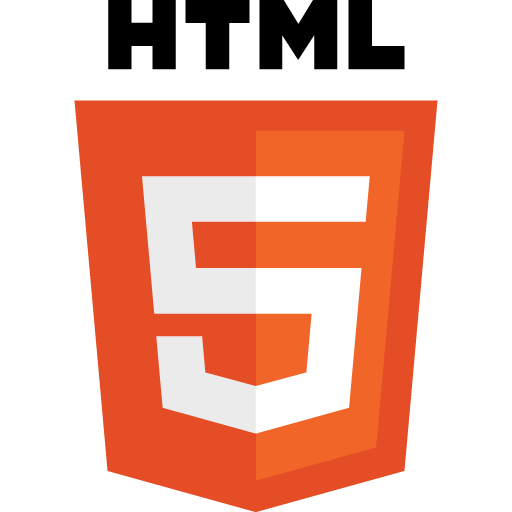
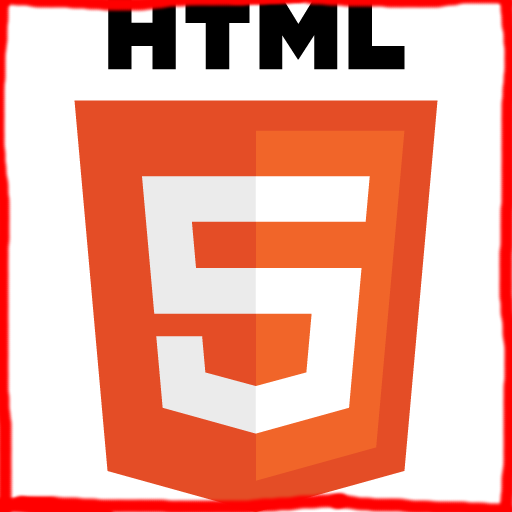
Added the ability to add optional padding parameter to leave transparent space around each sprite and sides of spritesheet.

Changed region(s): [[0.0, 0.0, 1.0, 1.0]]

diff --git a/target/test.html b/target/test.html
@@ -1,0 +1,23 @@
+<!DOCTYPE html>
+<html>
+   <head>
+      <title>Test sprite image</title>
+      <style>
+         html,
+         body {
+            padding: 0;
+            margin: 0;
+         }
+         body {
+            padding: 20px;
+         }
+         img {
+            border: 1px solid black;
+            background: #ccc;
+         }
+      </style>
+   </head>
+   <body>
+      <img src="spritesheet.png" alt="">
+   </body>
+</html>

diff --git a/src/com/murphybob/spritepacker/Spritepacker.java b/src/com/murphybob/spritepacker/Spritepacker.java
@@ -15,20 +15,174 @@ public class Spritepacker {
 	private static long startTime = System.currentTimeMillis();
 	
 	/*
-	 * This will come from pom when mojo'd
+	 * These will come from pom when mojo'd
 	 */
 	private static File output = new File("target/spritesheet.png");
-
-	/*
-	 * This will come from pom when mojo'd
-	 */
 	private static File[] imageFiles = {
 		new File("src/images/bob.png"),
 		new File("src/images/html5.png"),
 		new File("src/images/twitterTall.png"),
 		new File("src/images/twitter.png"),
+		new File("src/images/superman.png"),
+		new File("src/images/bob.png"),
+		new File("src/images/twitterTall.png"),
+		new File("src/images/twitter.png"),
+		new File("src/images/twsmall.png"),
+		new File("src/images/twsmall.png"),
+		new File("src/images/twsmall.png"),
+		new File("src/images/twsmall.png"),
+		new File("src/images/twsmall.png"),
+		new File("src/images/twsmall.png"),
+		new File("src/images/twsmall.png"),
+		new File("src/images/twsmall.png"),
+		new File("src/images/twsmall.png"),
+		new File("src/images/twsmall.png"),
+		new File("src/images/twsmall.png"),
+		new File("src/images/twsmall.png"),
+		new File("src/images/twsmall.png"),
+		new File("src/images/twsmall.png"),
+		new File("src/images/twsmall.png"),
+		new File("src/images/twsmall.png"),
+		new File("src/images/twsmall.png"),
+		new File("src/images/twsmall.png"),
+		new File("src/images/twsmall.png"),
+		new File("src/images/twsmall.png"),
+		new File("src/images/twsmall.png"),
+		new File("src/images/twsmall.png"),
+		new File("src/images/twsmall.png"),
+		new File("src/images/twsmall.png"),
+		new File("src/images/twsmall.png"),
+		new File("src/images/twsmall.png"),
+		new File("src/images/twsmall.png"),
+		new File("src/images/twsmall.png"),
+		new File("src/images/twsmall.png"),
+		new File("src/images/twsmall.png"),
+		new File("src/images/twsmall.png"),
+		new File("src/images/twsmall.png"),
+		new File("src/images/twsmall.png"),
+		new File("src/images/twsmall.png"),
+		new File("src/images/twsmall.png"),
+		new File("src/images/twsmall.png"),
+		new File("src/images/twsmall.png"),
+		new File("src/images/twsmall.png"),
+		new File("src/images/twsmall.png"),
+		new File("src/images/twsmall.png"),
+		new File("src/images/twsmall.png"),
+		new File("src/images/twsmall.png"),
+		new File("src/images/twsmall.png"),
+		new File("src/images/twsmall.png"),
+		new File("src/images/twsmall.png"),
+		new File("src/images/twsmall.png"),
+		new File("src/images/twsmall.png"),
+		new File("src/images/twsmall.png"),
+		new File("src/images/twsmall.png"),
+		new File("src/images/twsmall.png"),
+		new File("src/images/twsmall.png"),
+		new File("src/images/twsmall.png"),
+		new File("src/images/twsmall.png"),
+		new File("src/images/twsmall.png"),
+		new File("src/images/twsmall.png"),
+		new File("src/images/twsmall.png"),
+		new File("src/images/twsmall.png"),
+		new File("src/images/twsmall.png"),
+		new File("src/images/twsmall.png"),
+		new File("src/images/twsmall.png"),
+		new File("src/images/twsmall.png"),
+		new File("src/images/twsmall.png"),
+		new File("src/images/twsmall.png"),
+		new File("src/images/twsmall.png"),
+		new File("src/images/twsmall.png"),
+		new File("src/images/twsmall.png"),
+		new File("src/images/twsmall.png"),
+		new File("src/images/twsmall.png"),
+		new File("src/images/twsmall.png"),
+		new File("src/images/twsmall.png"),
+		new File("src/images/twsmall.png"),
+		new File("src/images/twsmall.png"),
+		new File("src/images/twsmall.png"),
+		new File("src/images/twsmall.png"),
+		new File("src/images/twsmall.png"),
+		new File("src/images/twsmall.png"),
+		new File("src/images/twsmall.png"),
+		new File("src/images/twsmall.png"),
+		new File("src/images/twsmall.png"),
+		new File("src/images/twsmall.png"),
+		new File("src/images/twsmall.png"),
+		new File("src/images/twsmall.png"),
+		new File("src/images/twsmall.png"),
+		new File("src/images/twsmall.png"),
+		new File("src/images/twsmall.png"),
+		new File("src/images/twsmall.png"),
+		new File("src/images/twsmall.png"),
+		new File("src/images/twsmall.png"),
+		new File("src/images/twsmall.png"),
+		new File("src/images/twsmall.png"),
+		new File("src/images/twsmall.png"),
+		new File("src/images/twsmall.png"),
+		new File("src/images/twsmall.png"),
+		new File("src/images/twsmall.png"),
+		new File("src/images/twsmall.png"),
+		new File("src/images/twsmall.png"),
+		new File("src/images/twsmall.png"),
+		new File("src/images/twsmall.png"),
+		new File("src/images/twsmall.png"),
+		new File("src/images/twsmall.png"),
+		new File("src/images/twsmall.png"),
+		new File("src/images/twsmall.png"),
+		new File("src/images/twsmall.png"),
+		new File("src/images/twsmall.png"),
+		new File("src/images/twsmall.png"),
+		new File("src/images/twsmall.png"),
+		new File("src/images/twsmall.png"),
+		new File("src/images/twsmall.png"),
+		new File("src/images/twsmall.png"),
+		new File("src/images/twsmall.png"),
+		new File("src/images/twsmall.png"),
+		new File("src/images/twsmall.png"),
+		new File("src/images/twsmall.png"),
+		new File("src/images/twsmall.png"),
+		new File("src/images/twsmall.png"),
+		new File("src/images/twsmall.png"),
+		new File("src/images/twsmall.png"),
+		new File("src/images/twsmall.png"),
+		new File("src/images/twsmall.png"),
+		new File("src/images/twsmall.png"),
+		new File("src/images/twsmall.png"),
+		new File("src/images/twsmall.png"),
+		new File("src/images/twsmall.png"),
+		new File("src/images/twsmall.png"),
+		new File("src/images/twsmall.png"),
+		new File("src/images/twsmall.png"),
+		new File("src/images/twsmall.png"),
+		new File("src/images/twsmall.png"),
+		new File("src/images/twsmall.png"),
+		new File("src/images/twsmall.png"),
+		new File("src/images/twsmall.png"),
+		new File("src/images/twsmall.png"),
+		new File("src/images/twsmall.png"),
+		new File("src/images/twsmall.png"),
+		new File("src/images/twsmall.png"),
+		new File("src/images/twsmall.png"),
+		new File("src/images/twsmall.png"),
+		new File("src/images/twsmall.png"),
+		new File("src/images/twsmall.png"),
+		new File("src/images/twsmall.png"),
+		new File("src/images/twsmall.png"),
+		new File("src/images/twsmall.png"),
+		new File("src/images/twsmall.png"),
+		new File("src/images/twsmall.png"),
+		new File("src/images/twsmall.png"),
+		new File("src/images/twsmall.png"),
+		new File("src/images/twsmall.png"),
+		new File("src/images/twsmall.png"),
+		new File("src/images/twsmall.png"),
+		new File("src/images/twsmall.png"),
+		new File("src/images/twsmall.png"),
+		new File("src/images/twsmall.png"),
+		new File("src/images/twsmall.png"),
 		new File("src/images/superman.png")
 	};
+	private static Integer padding = 50;
 	
 	/**
 	 * @param args
@@ -84,6 +238,7 @@ public class Spritepacker {
 	
 	private static Node packImages( ArrayList<ImageNode> images ){
 		PackGrowing p = new PackGrowing();
+		p.setPadding( padding );
 		return p.fit(images);		
 	}
 	

diff --git a/src/com/murphybob/spritepacker/PackGrowing.java b/src/com/murphybob/spritepacker/PackGrowing.java
@@ -5,7 +5,17 @@ import java.util.ArrayList;
 public class PackGrowing {
 	
 	private Node root;
+	private Integer padding = 0;
 
+	/*
+	 * Sets free space padding to be created around each packed node
+	 * 
+	 * @param	padding	padding in pixels
+	 */
+	public void setPadding( Integer p ){
+		padding = p;
+	}
+	
 	/*
 	 * Adds Node node property to each element in an array of ImageNodes according to how it could be packed into a larger rectangle
 	 * 
@@ -16,7 +26,7 @@ public class PackGrowing {
 		int w = images.get(0).w;
 		int h = images.get(0).h;
 		
-		root = new Node( 0, 0, w, h );
+		root = new Node( padding, padding, w, h );
 		
 		for( ImageNode imageNode: images){
 			Node availableNode = findNode( root, imageNode.w, imageNode.h );
@@ -27,6 +37,9 @@ public class PackGrowing {
 				imageNode.node = growNode( imageNode.w, imageNode.h );
 			}
 		}
+		
+		root.w = root.w + padding * 2;
+		root.h = root.h + padding * 2;
 		
 		return root;
 	}
@@ -51,11 +64,11 @@ public class PackGrowing {
 		}
 	}
 	
-	// Split a node into smaller nodes
+	// Split a node into a node of size w x h and return the remaining space to the pool
 	private Node splitNode( Node nodeIn, int w, int h ){
 		nodeIn.used = true;
-		nodeIn.down = new Node( nodeIn.x, nodeIn.y + h, nodeIn.w, nodeIn.h - h );
-		nodeIn.right = new Node( nodeIn.x + w, nodeIn.y, nodeIn.w - w, h );
+		nodeIn.down = new Node( nodeIn.x, nodeIn.y + h + padding, nodeIn.w, nodeIn.h - h - padding );
+		nodeIn.right = new Node( nodeIn.x + w + padding, nodeIn.y, nodeIn.w - w - padding, h );
 		return nodeIn;
 	}
 	
@@ -86,10 +99,11 @@ public class PackGrowing {
 	
 	// Grow right
 	private Node growRight( int w, int h ) {
-		Node newRoot = new Node( 0, 0, root.w + w, root.h );
+		// TODO: foobar!
+		Node newRoot = new Node( root.x, root.y, root.w + w + padding, root.h );
 		newRoot.used = true;
 		newRoot.down = root;
-		newRoot.right = new Node( root.w, 0, w, root.h );
+		newRoot.right = new Node( root.w + root.x + padding, root.y, w, root.h );
 		root = newRoot;
 
 		Node availableNode = findNode( root, w, h );
@@ -103,9 +117,10 @@ public class PackGrowing {
 	
 	// Grow down
 	private Node growDown( int w, int h ) {
-		Node newRoot = new Node( 0, 0, root.w, root.h + h );
+		// TODO: foobar!
+		Node newRoot = new Node( root.x, root.y, root.w, root.h + h + padding );
 		newRoot.used = true;
-		newRoot.down = new Node( 0, root.h, root.w, h );
+		newRoot.down = new Node( root.x, root.y + root.h + padding, root.w, h );
 		newRoot.right = root;
 		root = newRoot;
 
@@ -119,24 +134,3 @@ public class PackGrowing {
 	}
 	
 }
-
-/*
-
-growDown: function(w, h) {
-this.root = {
-  used: true,
-  x: 0,
-  y: 0,
-  w: this.root.w,
-  h: this.root.h + h,
-  down:  { x: 0, y: this.root.h, w: this.root.w, h: h },
-  right: this.root
-};
-if (node = this.findNode(this.root, w, h))
-  return this.splitNode(node, w, h);
-else
-  return null;
-}
-
-
-*/
